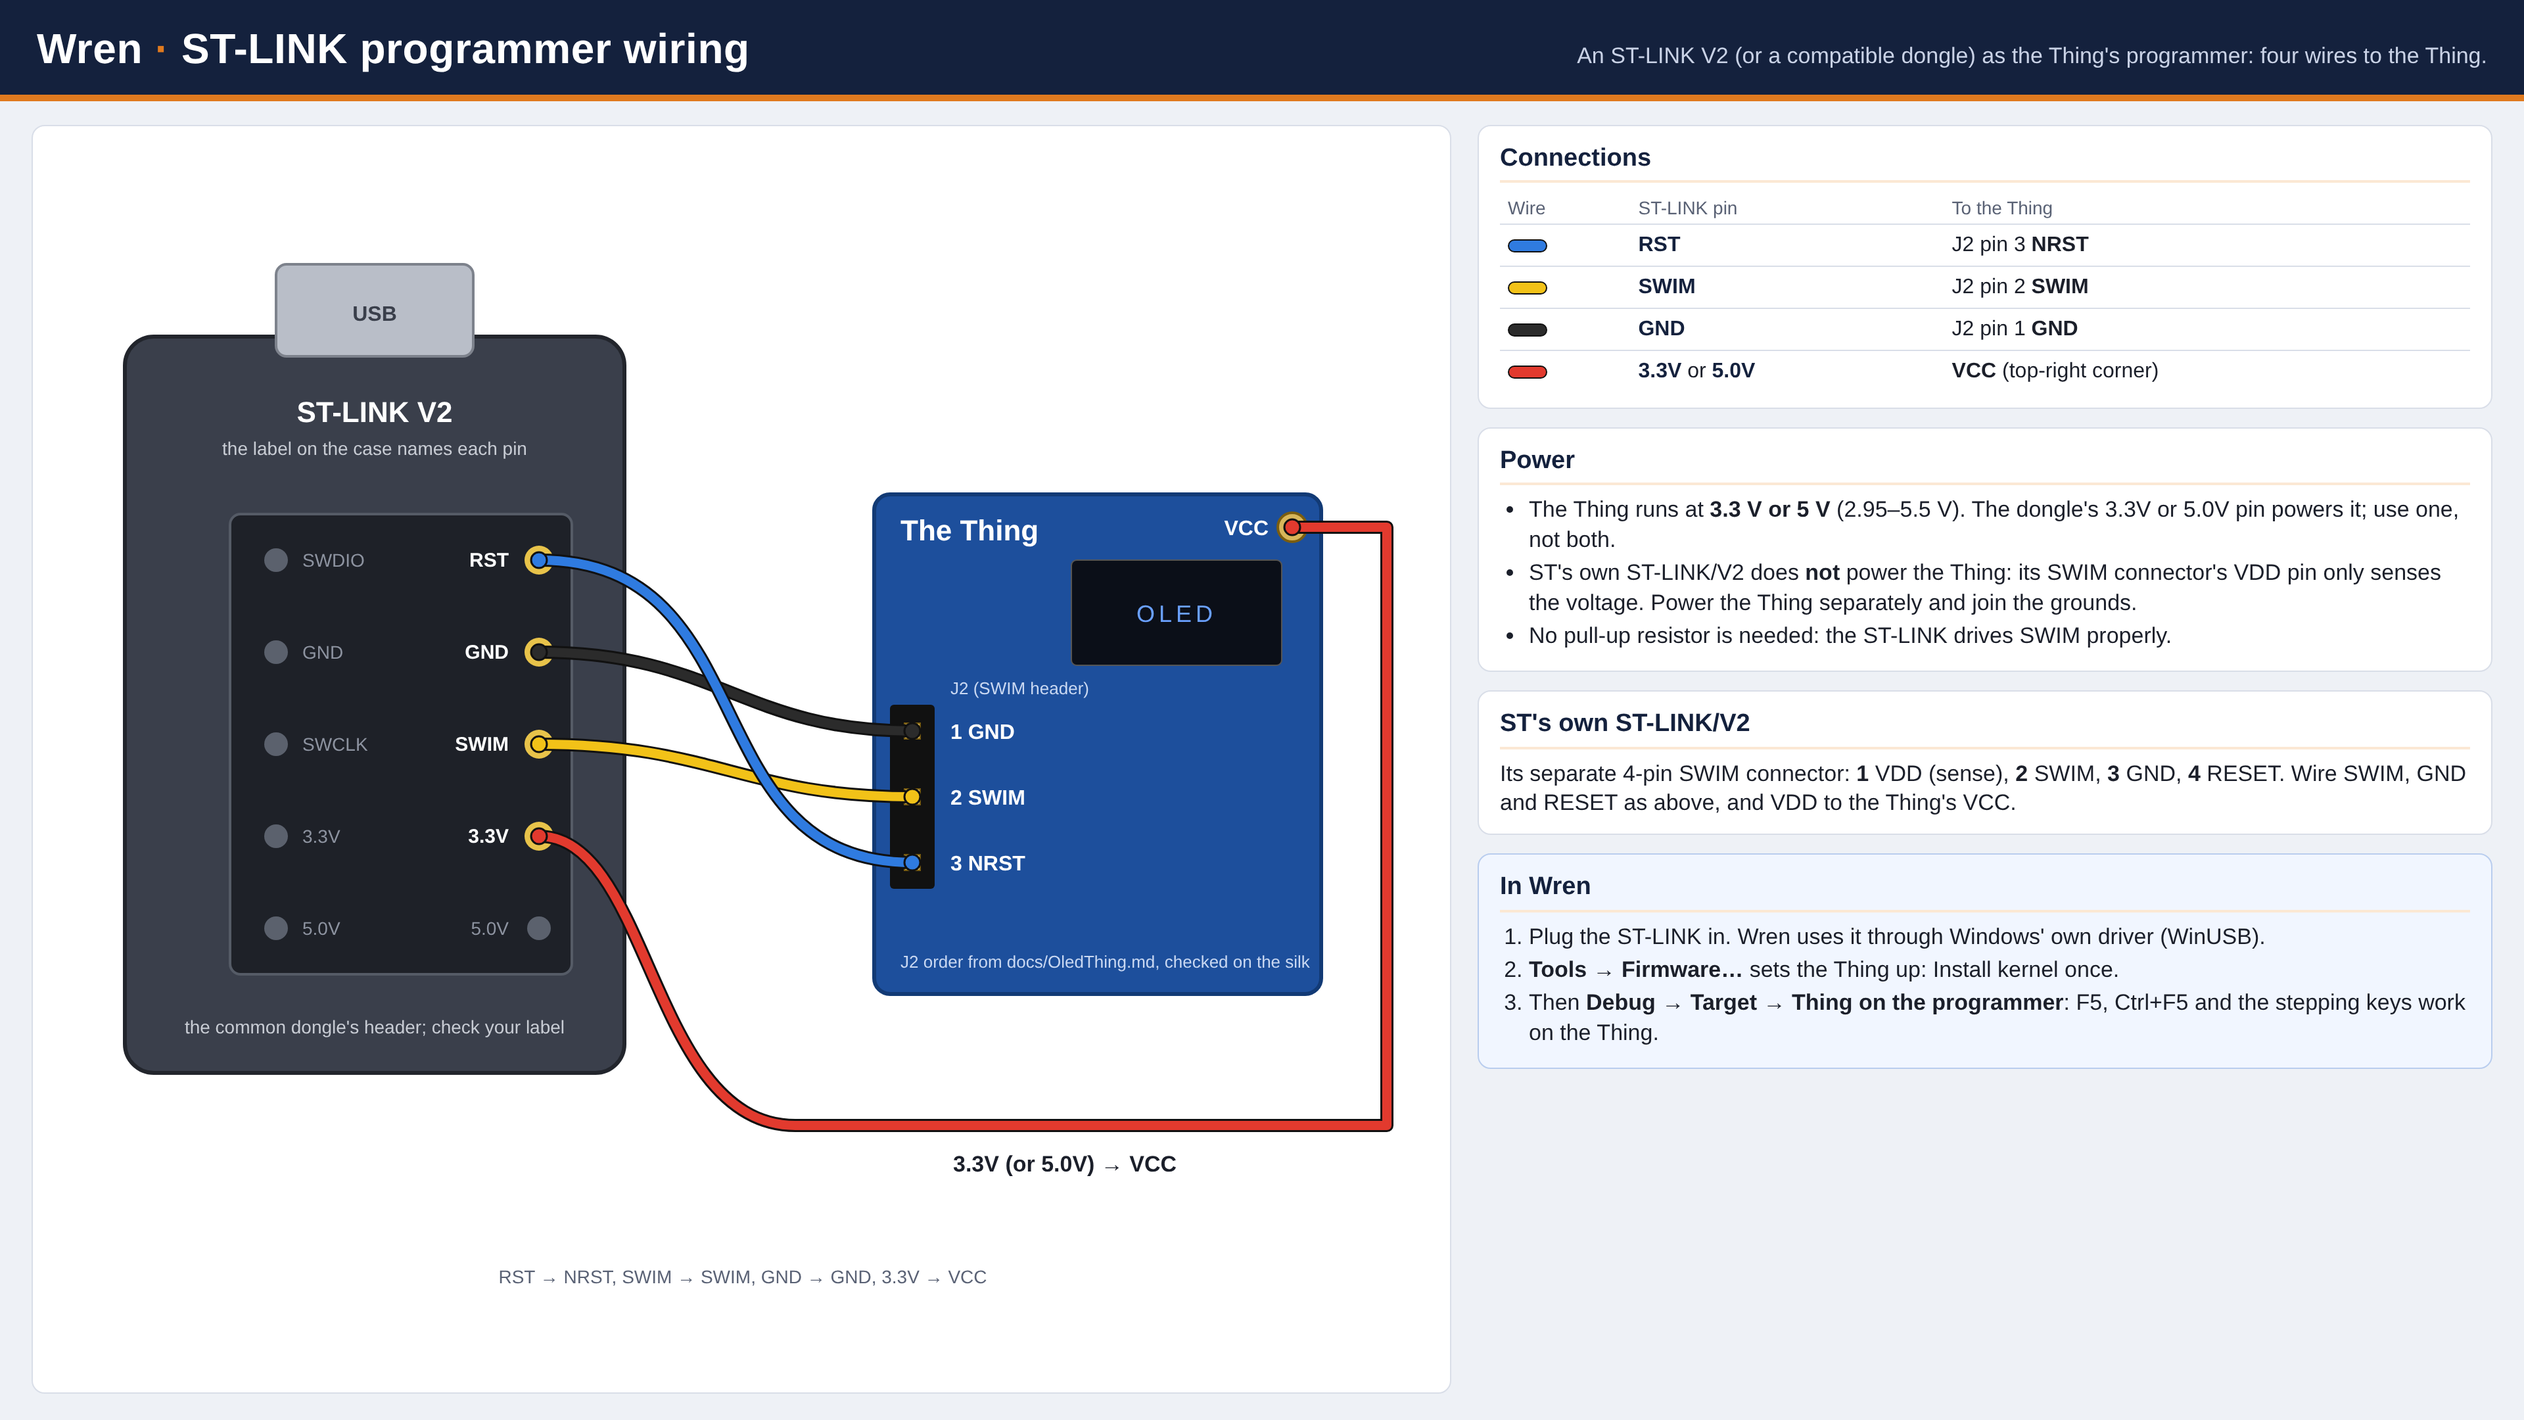
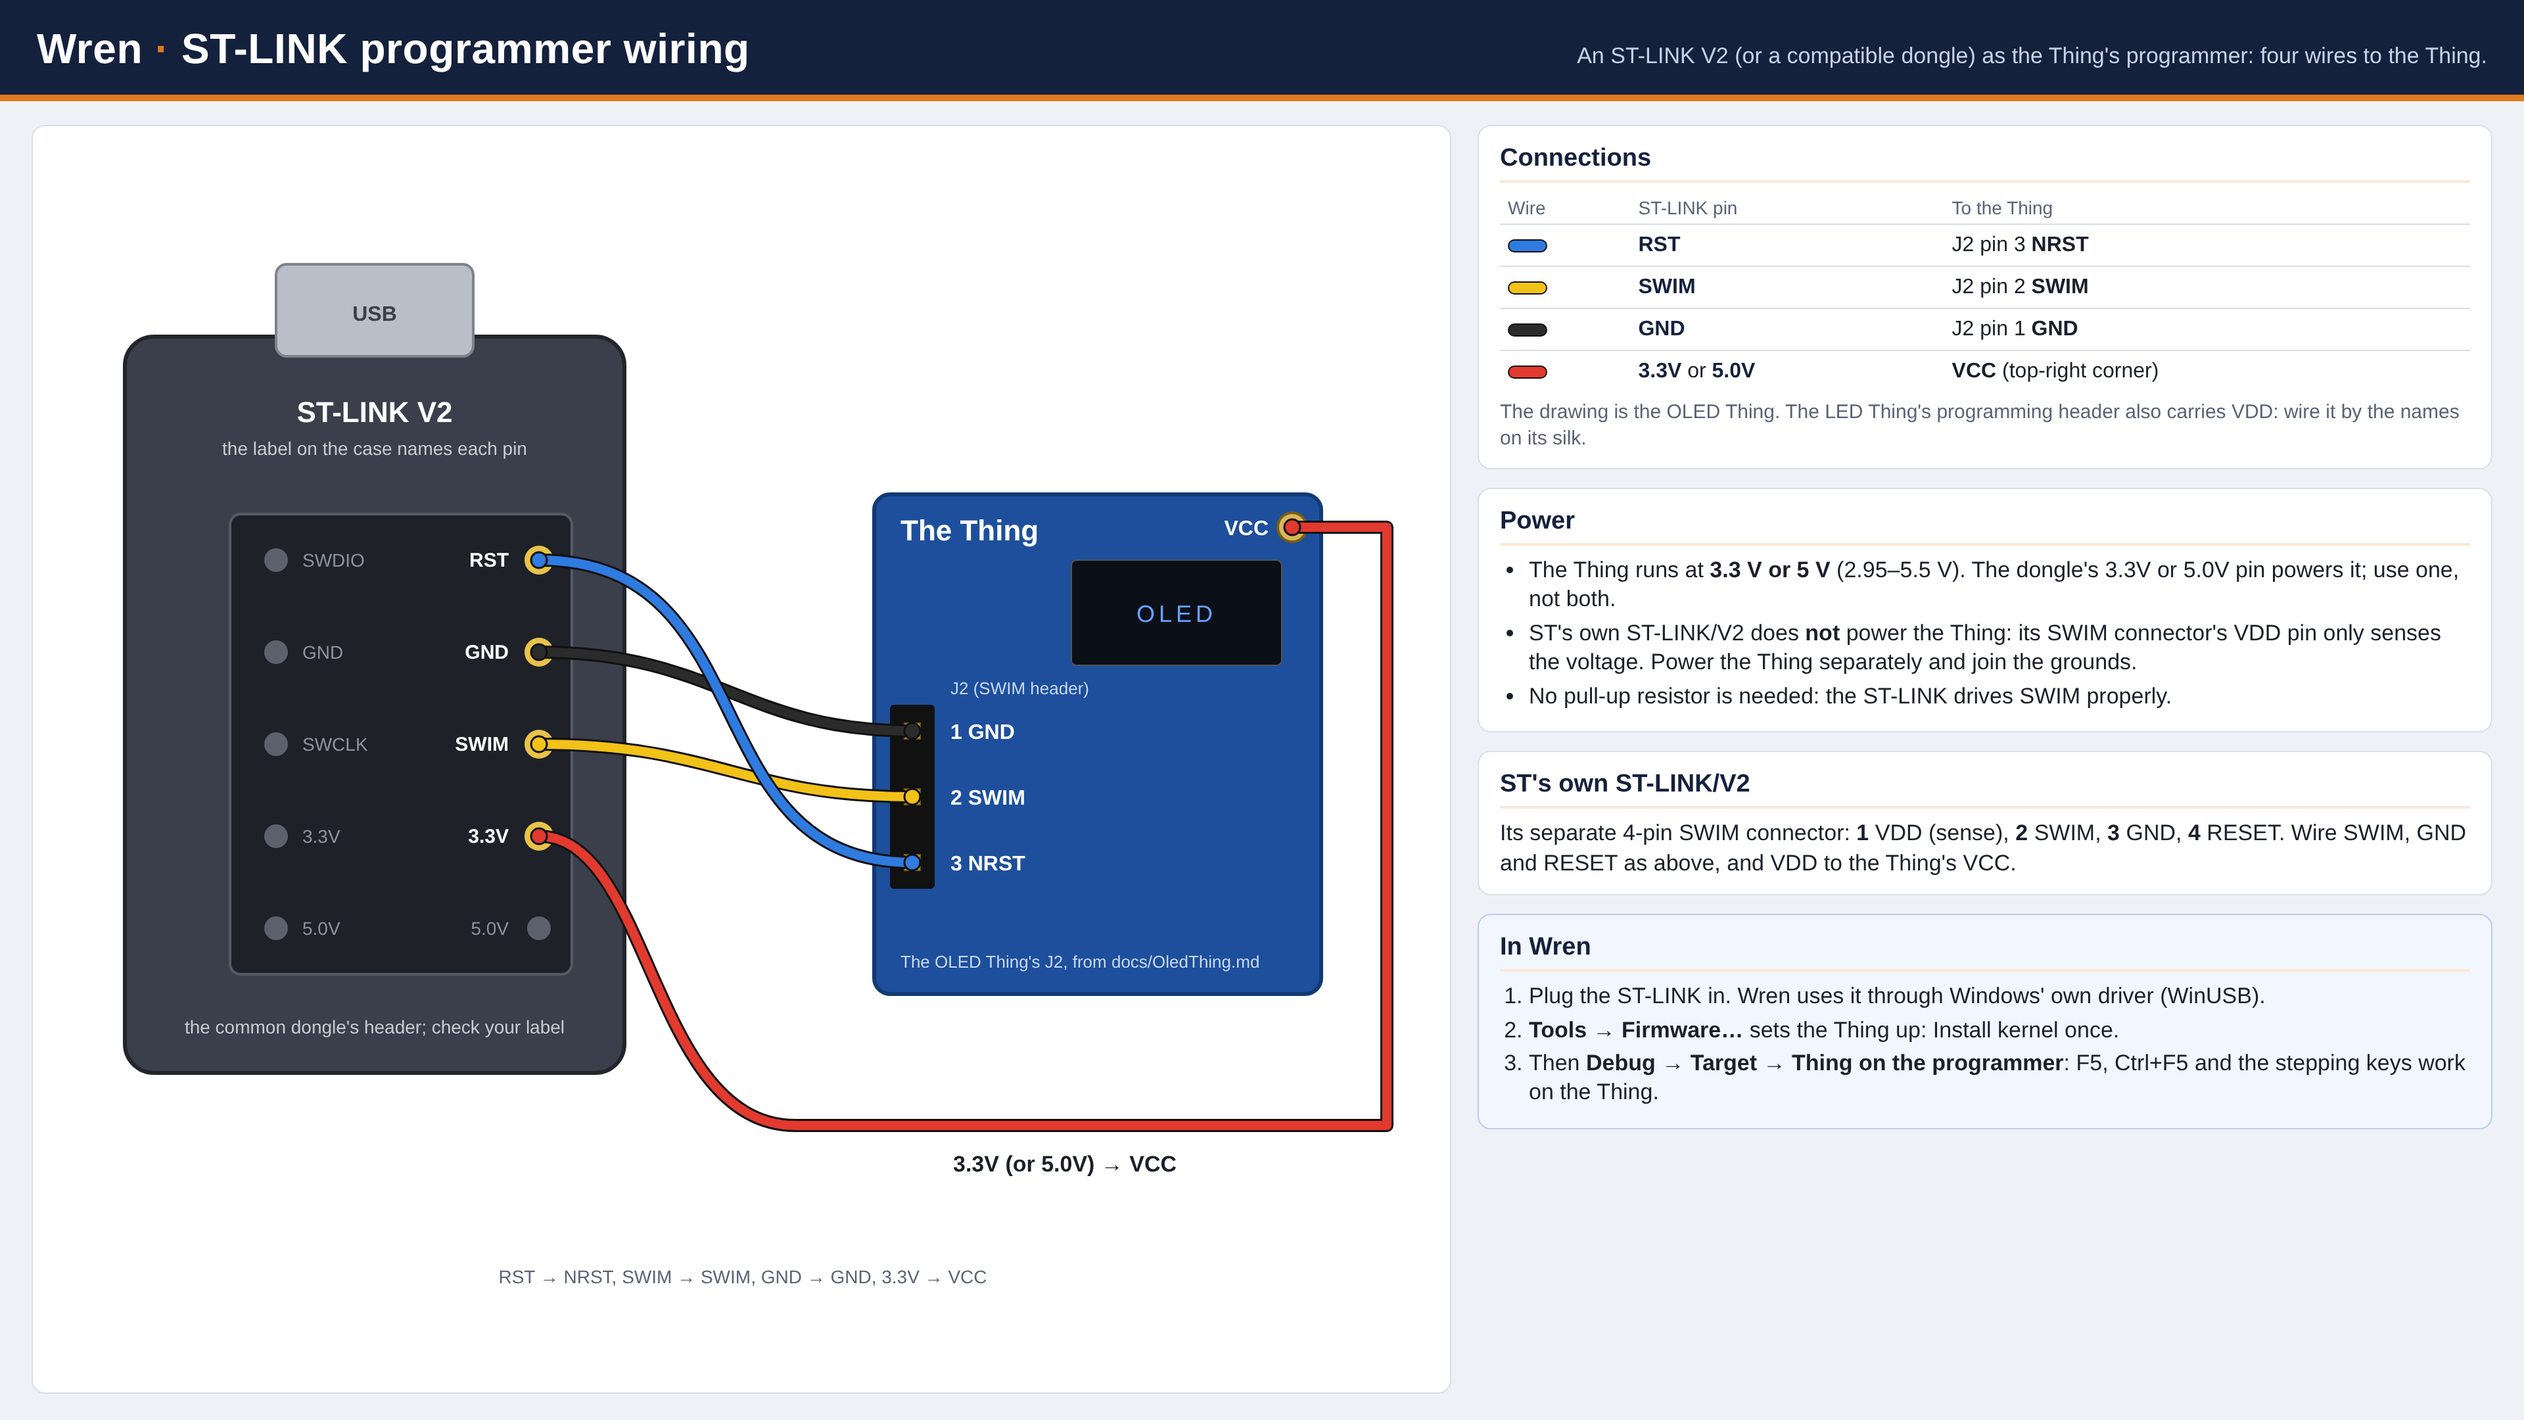
Wording: a Thing, not the OLED Thing, wherever both are meant
The splash screen, the Wear report, the Firmware window's warnings, README,
the plan, the design, PicoLink.md and the working rules no longer name the
OLED Thing where any Thing is meant. The wiring sheets say their drawing is
the OLED Thing, and that the LED Thing's header (with VDD) is wired by its silk.

Claude-Session: https://claude.ai/code/session_01PM169qrH4mH2uiYQRpnWtD

Changed region(s): [[0.5938, 0.2792, 0.9688, 0.7755], [0.375, 0.6514, 0.5, 0.6824]]

diff --git a/docs/Infographics/StLink_Programmer_Wiring.html b/docs/Infographics/StLink_Programmer_Wiring.html
@@ -12,7 +12,8 @@
     6. The result is 3840 x 2160. Save it over StLink_Programmer_Wiring.png.
 
   Fonts: "Liberation Sans" and "DejaVu Sans Mono", falling back to Arial and Consolas.
-  Facts: the Thing's J2 header and VCC from docs/OledThing.md and docs/LedThing.md; the
+  Facts: the OLED Thing's J2 header and VCC from docs/OledThing.md (the LED Thing's header,
+  with VDD, from docs/LedThing.md); the
   ST-LINK's pins are named as printed on the common ST-LINK V2 dongle's label, and on ST's
   own ST-LINK/V2 SWIM connector (UM1075).
 -->
@@ -92,7 +93,7 @@
       <rect x="790" y="330" width="160" height="80" rx="4" fill="#0b0f18" stroke="#555"/>
       <text x="870" y="377" text-anchor="middle" font-size="18" fill="#6aa0ff" letter-spacing="3">OLED</text>
       <text x="660" y="315" class="thing">The Thing</text>
-      <text x="660" y="640" class="thing2">J2 order from docs/OledThing.md, checked on the silk</text>
+      <text x="660" y="640" class="thing2">The OLED Thing's J2, from docs/OledThing.md</text>
       <circle cx="958" cy="305" r="11" fill="#d8b65a" stroke="#7a5d10" stroke-width="2"/>
       <text x="940" y="311" class="thpin" text-anchor="end">VCC</text>
       <rect x="652" y="440" width="34" height="140" fill="#111" rx="3"/>
@@ -132,6 +133,7 @@
         <tr><td><span class="sw" style="background:#2b2b2b"></span></td><td><b class="k">GND</b></td><td>J2 pin 1 <b>GND</b></td></tr>
         <tr><td><span class="sw" style="background:#e23a2e"></span></td><td><b class="k">3.3V</b> or <b class="k">5.0V</b></td><td><b>VCC</b> (top-right corner)</td></tr>
       </table>
+      <p style="margin-top:6px;color:#5a6275;font-size:15px">The drawing is the OLED Thing. The LED Thing's programming header also carries VDD: wire it by the names on its silk.</p>
     </div>
     <div class="card">
       <h2>Power</h2>

diff --git a/docs/Infographics/Pico_Programmer_Wiring.html b/docs/Infographics/Pico_Programmer_Wiring.html
@@ -66,7 +66,7 @@
 <body>
 <header>
   <h1>Wren <span>·</span> Pico programmer wiring</h1>
-  <p>A Waveshare RP2040 Plus (or any Pico) as the OLED Thing's programmer. Seen from above, USB at the top.</p>
+  <p>A Waveshare RP2040 Plus (or any Pico) as a Thing's programmer, shown on the OLED Thing. Seen from above, USB at the top.</p>
 </header>
 <main>
   <div class="drawing">

diff --git a/src/Wren/LinkWindow.axaml.cs b/src/Wren/LinkWindow.axaml.cs
@@ -325,7 +325,7 @@ public partial class LinkWindow : Window
             imageToWrite = chosen;
             Log(link.Target.NoAccess
                 ? $"Writing {Path.GetFileName(chosen)} first removes read-out protection, which erases all the chip's flash and EEPROM, then writes the image, unprotected. Click again to go ahead."
-                : $"{Path.GetFileName(chosen)} will be written to the Thing's flash: only the blocks that differ, each costing one of an OLED Thing's ~100 flash writes. " +
+                : $"{Path.GetFileName(chosen)} will be written to the Thing's flash: only the blocks that differ, each costing one of a Thing's ~100 flash writes. " +
                   "The EEPROM is cleared (Wren's program table goes with Wren's kernel) and read-out protection stays off. Click again to go ahead.");
             UpdateButtons();
             return;
@@ -404,7 +404,7 @@ public partial class LinkWindow : Window
         {
             kernelConfirmed = true;
             Log("Installing the kernel writes the flash blocks that differ from what the Thing holds. " +
-                "On an OLED Thing each block is rated for about 100 writes. Click again to go ahead.");
+                "A Thing's flash is rated for about 100 writes a block. Click again to go ahead.");
             UpdateButtons();
             return;
         }

diff --git a/src/Wren.Emu/Stm8Device.cs b/src/Wren.Emu/Stm8Device.cs
@@ -3,7 +3,7 @@ namespace Wren.Emu;
 /// <summary>The sizes that differ between parts of the family.</summary>
 public sealed record DeviceInfo(string Name, int FlashSize, int EepromSize, int RamSize, int FlashEndurance, int EepromEndurance)
 {
-    /// <summary>The OLED Thing's chip: 8 KB flash (100 writes), 128 B EEPROM (100k writes), 1 KB RAM.</summary>
+    /// <summary>The Things' chip: 8 KB flash (100 writes), 128 B EEPROM (100k writes), 1 KB RAM.</summary>
     public static readonly DeviceInfo Stm8s003f3 = new("STM8S003F3", 8192, 128, 1024, 100, 100_000);
 
     /// <summary>The development board's chip: 8 KB flash (10k writes), 640 B EEPROM (300k writes), 1 KB RAM.</summary>

diff --git a/src/Wren.Link/ThingDebugger.cs b/src/Wren.Link/ThingDebugger.cs
@@ -80,7 +80,7 @@ public sealed class ThingDebugger : IDisposable
 
     /// <summary>
     /// Opens the programmer, connects to the Thing (its CPU stalled) and checks it runs this
-    /// Wren's kernel: one whose info block says the current program store and an OLED Thing.
+    /// Wren's kernel: one whose info block says the current program store, for the kernel's board.
     /// </summary>
     public static ThingDebugger Open(ProgrammerInfo programmer, Kernel kernel) => Attach(ThingLink.Open(programmer), kernel);
 

diff --git a/src/Wren/WearWindow.axaml.cs b/src/Wren/WearWindow.axaml.cs
@@ -10,7 +10,7 @@ namespace Wren;
 /// <summary>A grid of the program store's 54 blocks and the writes the Thing has recorded for each.</summary>
 public partial class WearWindow : Window
 {
-    /// <summary>The rated program/erase cycles of an OLED Thing's (STM8S003) flash.</summary>
+    /// <summary>The rated program/erase cycles of a Thing's (STM8S003) flash.</summary>
     public const int RatedWrites = 100;
 
     public WearWindow() : this(new StoreWear(new int[ProgramStore.Blocks], Array.Empty<int>(), 0, 0)) { }

diff --git a/docs/ProjectPlan.md b/docs/ProjectPlan.md
@@ -3,19 +3,20 @@
 **Status: approved. Step 1 (assembler, emulator, app) and the firmware (kernel, Wren BASIC, debugger) are built and tested. Wren's kernel and `OledThing.bas` run on a real OLED Thing, installed through a Raspberry Pi Pico programmer, and programs are debugged on it from the main window. The LED Thing's kernel and `LedThing.bas` are built and tested in the emulator.**
 
 Wren is a C# / .NET 8 development environment for STM8S003F3-class microcontrollers.
-It is driven through an ST-LINK V2 over SWIM. The first target is the Digicool
-"8-bit OLED Thing" (STM8S003F3U, 64x32 SSD1315 OLED over I2C on PB4/PB5). Licence: MIT.
-The Thing's pins are in [OledThing.md](OledThing.md).
+It is driven through an ST-LINK V2 over SWIM. Its targets are Digicool's "8-bit OLED
+Thing" (STM8S003F3U, 64x32 SSD1315 OLED over I2C on PB4/PB5) and "8-bit LED Thing" (the
+same chip, eight charlieplexed LEDs). Licence: MIT. Their pins are in
+[OledThing.md](OledThing.md) and [LedThing.md](LedThing.md).
 
 ## Strategy: protect the Things' flash
 
 A Thing's flash is rated for only ~100 writes, so firmware reaches it last:
 
-1. **Emulator.** Both the MCU and the OLED are emulated in Wren. Rewrites are unlimited.
+1. **Emulator.** The MCU, the OLED and the LEDs are emulated in Wren. Rewrites are unlimited.
 2. **Development board.** An STM8S103F3 board with a real 0.49" 64x32 OLED module wired
    to it. The firmware keeps to the S003's limits: 8 KB flash, 1 KB RAM, 128 B EEPROM.
-3. **The OLED Thing.** Each Thing is flashed once with the finished firmware. After that,
-   changes go to its EEPROM only.
+3. **The Things.** Each Thing is flashed once with the finished kernel. After that,
+   programs go to its program store, reusing what it already holds.
 
 ## Hardware (ordered)
 
@@ -65,8 +66,9 @@ first run. The firmware design is in [Design.md](Design.md) and the bytecode in
    scan, because the Thing's module is mounted rotated 180°. It also turns on pull-ups on
    b0–b7, so inputs left open read 1 (`PULLUPS` changes that). Programs reach a Thing over
    SWIM (Wren.Link). Install kernel first tells the board from its firmware or by asking
-   for the OLED on I2C, and refuses anything but an OLED Thing.
-4. **Wren BASIC (done).** The Thing's own behaviour is 502 bytes of BASIC.
+   for the OLED on I2C, and installs that board's kernel.
+4. **Wren BASIC (done).** The OLED Thing's own behaviour is 502 bytes of BASIC, the LED
+   Thing's 625.
 5. **Debugging on the Thing (built).** On **Debug → Target → Thing on the programmer** the
    main window runs and debugs a program on a real Thing with the same keys as the
    emulator, through the chip's debug module and no kernel code (`ThingDebugger`):

diff --git a/docs/Design.md b/docs/Design.md
@@ -8,8 +8,9 @@ Thing holds **one program**; the EEPROM is used as below.
 
 ## The idea in one paragraph
 
-Each Thing gets a **kernel** once, over SWIM: the VM, the OLED driver, graphics, fonts,
-timers and the program loading. The kernel sits in the first part of flash, locked by the
+Each Thing gets a **kernel** once, over SWIM: the VM, timers, the program loading and its
+board's own parts (the OLED Thing's display driver, graphics and fonts; the LED Thing's
+LED scan). The kernel sits in the first part of flash, locked by the
 user boot code (UBC) option byte so nothing can erase it except a SWIM programmer.
 Programs are written in Wren BASIC, compiled by Wren on the PC, and uploaded into the
 rest of flash, the **program store**, as many times as needed. A **file allocation
@@ -112,7 +113,8 @@ address, so the table is rewritten with the program and its write counts in plac
 - Speed: about 100-200 thousand operations a second at 16 MHz, far more than a 64x32
   display needs.
 - Safety: stack depth, array indexes and jump targets are checked. A fault stops the
-  program and shows `ERR code @ address` on the OLED. The kernel itself keeps running,
+  program and shows `ERR code @ address` on the OLED (on the LED Thing, b7 lit with the
+  code in b0-b6). The kernel itself keeps running,
   so a new program can always be uploaded.
 
 Code density. BASIC lets one statement do a lot, and the bytecode is shaped so that it

diff --git a/README.md b/README.md
@@ -15,8 +15,8 @@ SWIM are ST's names, used here to describe compatibility.
   starts debugging (building first if the program changed), Ctrl+F5 runs without
   debugging, Shift+F5 stops, F9 toggles a breakpoint, and while it is paused F11, F10
   and Shift+F11 step into, over and out and Ctrl+F10 runs to the cursor. **Debug → Target** chooses where: the
-  emulated OLED Thing (the OLED, the inputs and pins, the current line, variables and the
-  flash write counts), or a real Thing on the programmer, where the same keys upload the
+  emulated Thing chosen in **Board** (its OLED or LEDs, the inputs and pins, the current line,
+  variables and the flash write counts), or a real Thing on the programmer, where the same keys upload the
   program only if it changed, run it and debug it on the chip (two breakpoints at a time).
   **Tools → Firmware…** sets a Thing up. A program saved from another editor reloads
   by itself.

diff --git a/CLAUDE.md b/CLAUDE.md
@@ -1,8 +1,8 @@
 # Wren: working rules
 
 Wren is a public (MIT) C# / .NET 8 development environment for STM8S003F3-class
-microcontrollers, driven through an ST-LINK V2 over SWIM. Its first target is the
-Digicool Things "8-bit OLED Thing". See `docs/ProjectPlan.md`.
+microcontrollers, driven through an ST-LINK V2 or a Pico over SWIM. Its targets are the
+Digicool Things "8-bit OLED Thing" and "8-bit LED Thing". See `docs/ProjectPlan.md`.
 
 ## About Michael
 - He has written C++ and C# for decades. Everything that lands on his machine is C#,

diff --git a/docs/PicoLink.md b/docs/PicoLink.md
@@ -43,8 +43,8 @@ The breadboard cheatsheet: [Infographics/Pico_Programmer_Wiring.png](Infographic
 | 36 | 3V3(OUT) | the pull-up's other leg, **and** the Thing's VCC (top-right corner) |
 
 **The Thing runs at 3.3 V from the board.** RP2040 pins are not 5 V tolerant, so the Thing
-must not be powered from anything else while the board is connected. The OLED is fine at
-3.3 V.
+must not be powered from anything else while the board is connected. Both Things are fine
+at 3.3 V.
 
 ## Putting the firmware on the board
 
